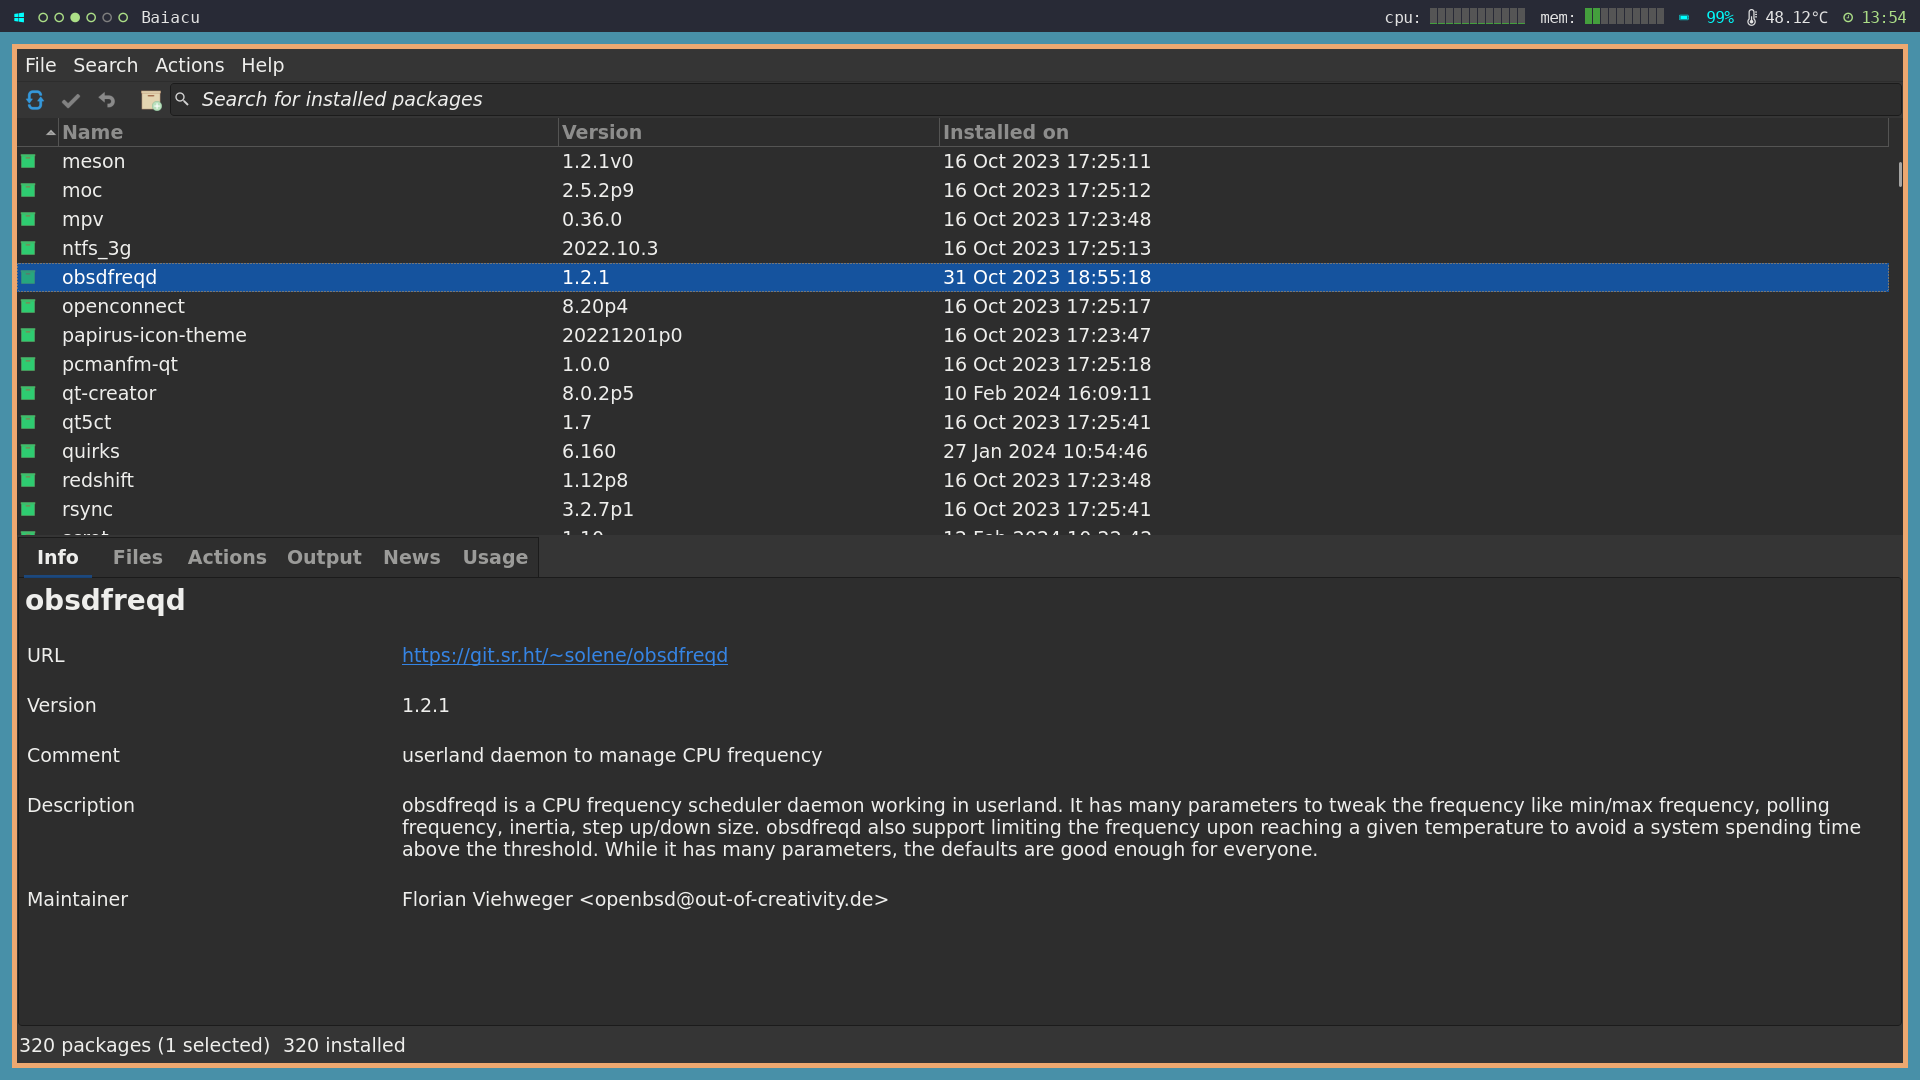
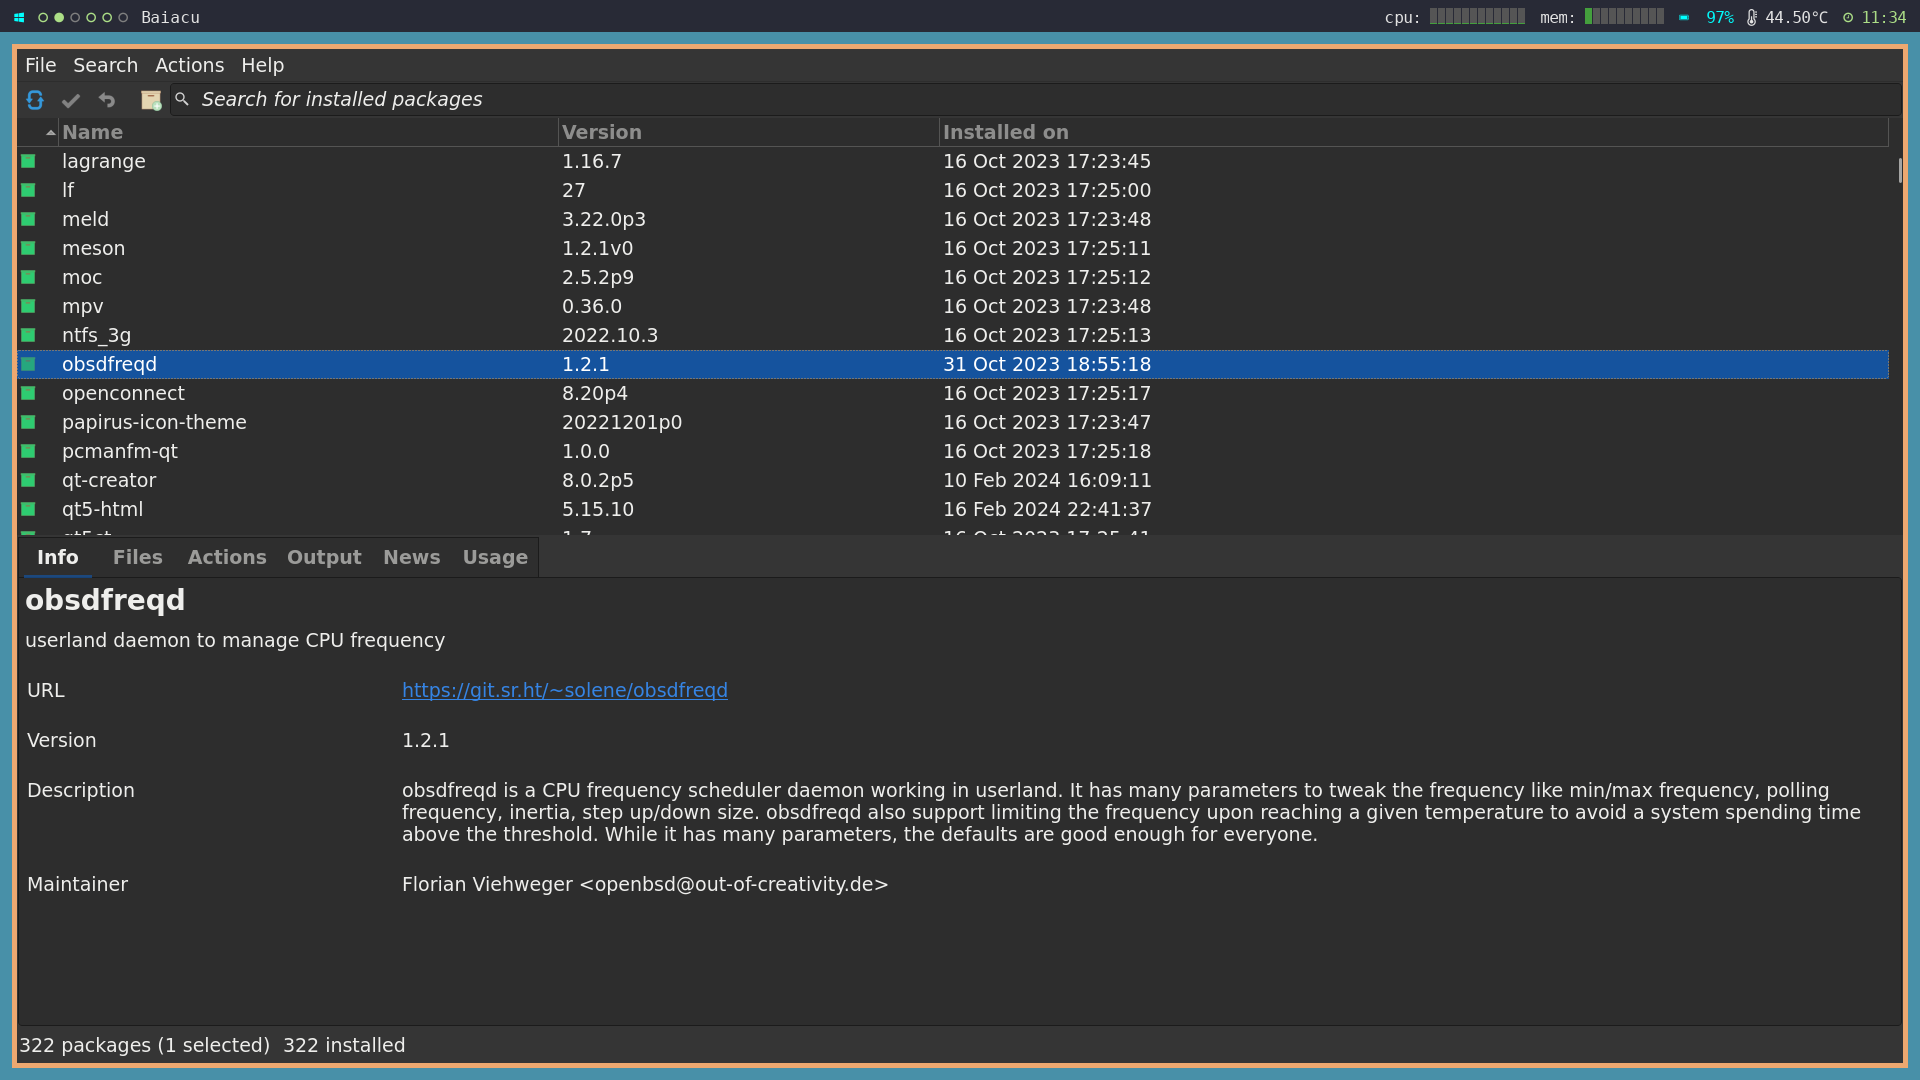
- Fix in Info tab

diff --git a/src/ui/baiacutabinfo.cpp b/src/ui/baiacutabinfo.cpp
@@ -62,7 +62,7 @@ QString BaiacuTabInfo::formatTabInfo(const PackageRepository::PackageData& packa
   html += "<meta http-equiv=\"Content-Type\" content=\"text/html; charset=utf-8\">";
   html += "<a id=\"" + anchorBegin + "\"></a>";
   html += "<h2>" + package.name + "</h2>";
-  html += pkgDescription;
+  html += pid.comment;
   html += "<table border=\"0\">";
   html += "<tr><th width=\"20%\"></th><th width=\"80%\"></th></tr>";
 
@@ -76,7 +76,7 @@ QString BaiacuTabInfo::formatTabInfo(const PackageRepository::PackageData& packa
   packagerName = packagerName.replace("<", "&lt;");
   packagerName = packagerName.replace(">", "&gt;");
 
-  html += "<tr><td>" + comment + "</td><td>" + pid.comment + "</td></tr><tr><td></tr></td>";
+  //html += "<tr><td>" + comment + "</td><td>" + pid.comment + "</td></tr><tr><td></tr></td>";
 
   html += "<tr><td>" + description + "</td><td>" + pid.description + "</td></tr><tr><td></tr></td>";
 
